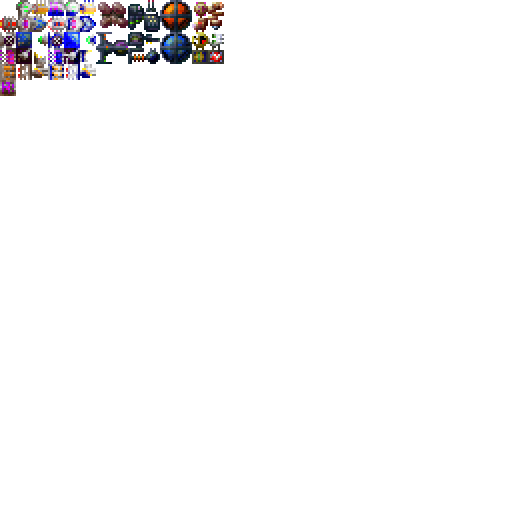
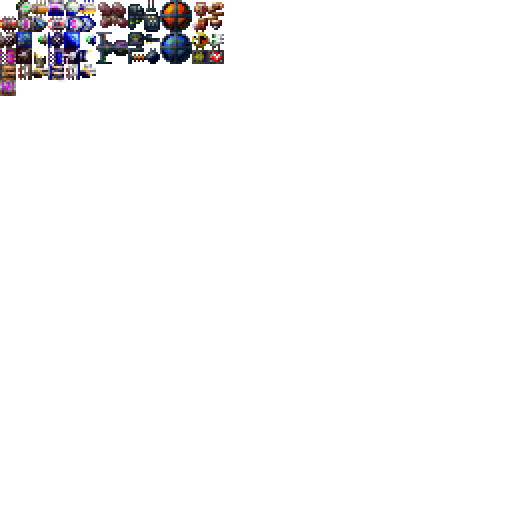
prettied up ship graphics

Changed region(s): [[0.0, 0.0, 0.1875, 0.1875]]

diff --git a/mauris.js b/mauris.js
@@ -538,7 +538,7 @@ function create () {
 		backdrop3.fixedToCamera = true;
 		backdrop3.scale.x=2;
 		backdrop3.scale.y=2;
-
+		ships.push([74, 8, 9, 72, 104, 107, 130, 44, 13]);
 		ships.push([74, 75, 10, 35, 5, 101, 106, 107, 42]);
 		ships.push([10, 9, 42, 43]);
 		ships.push([70, 72, 73, 32, 65, 34, 102, 130, -1]);
